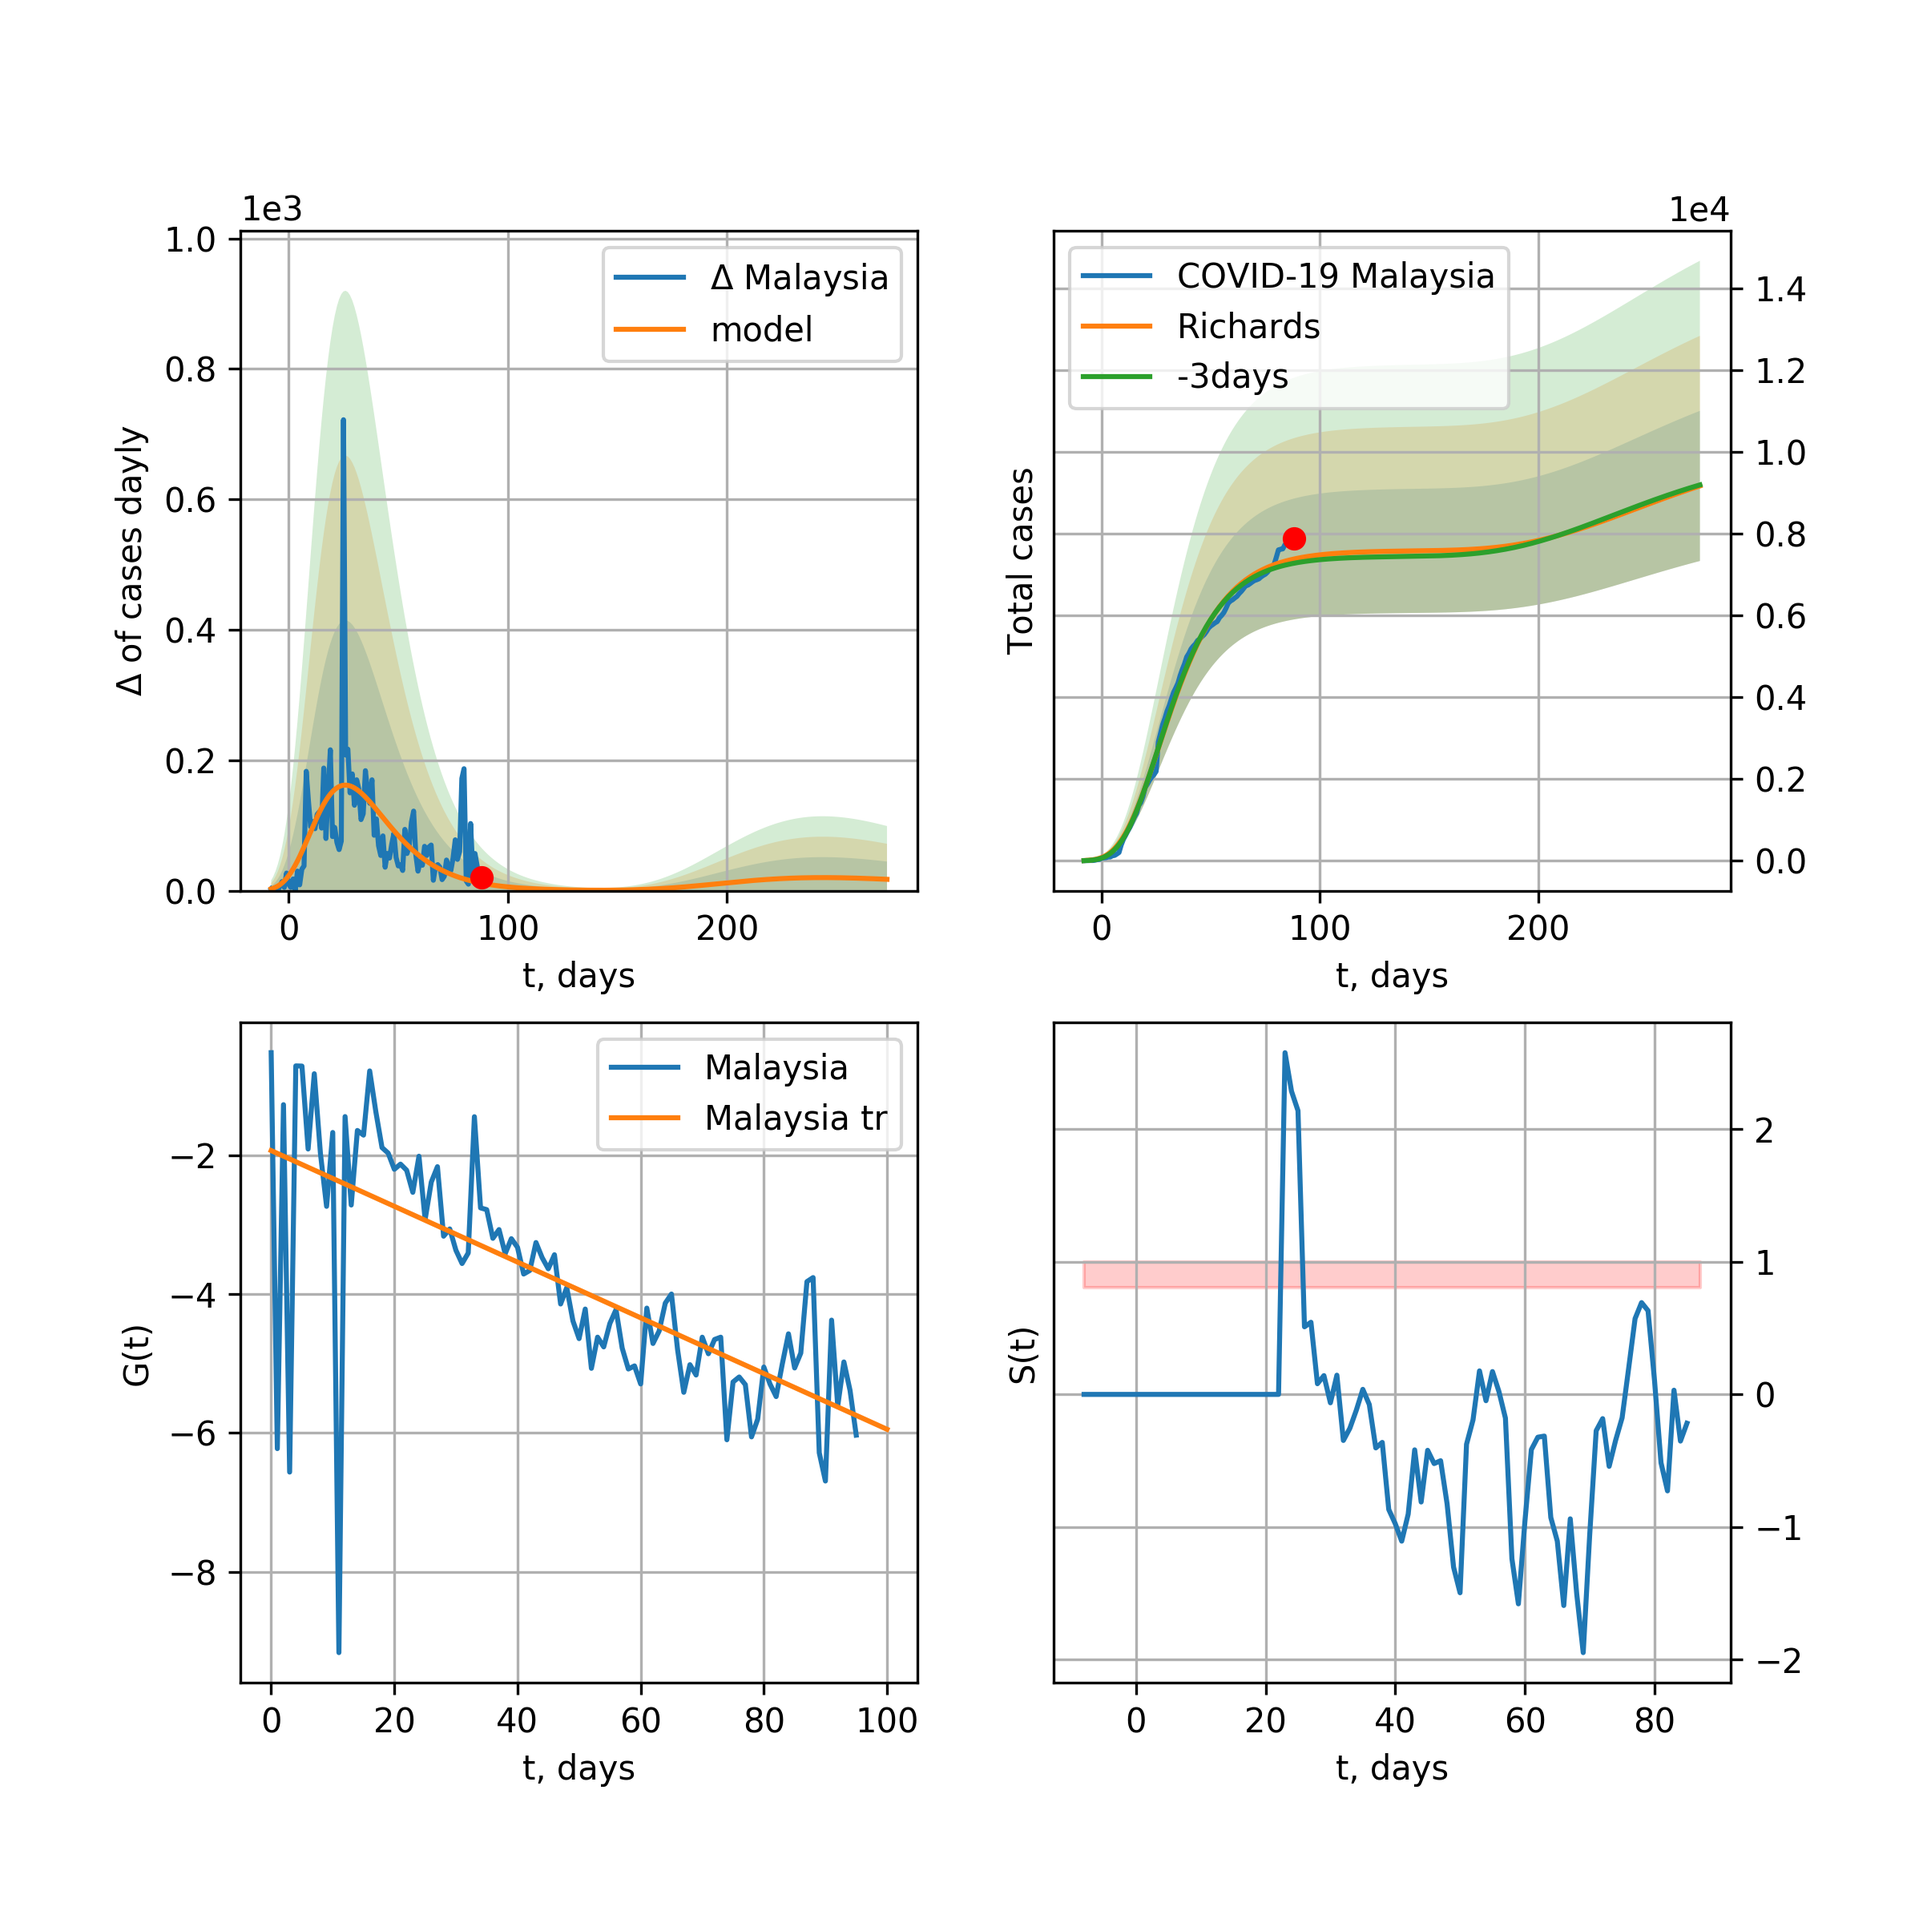
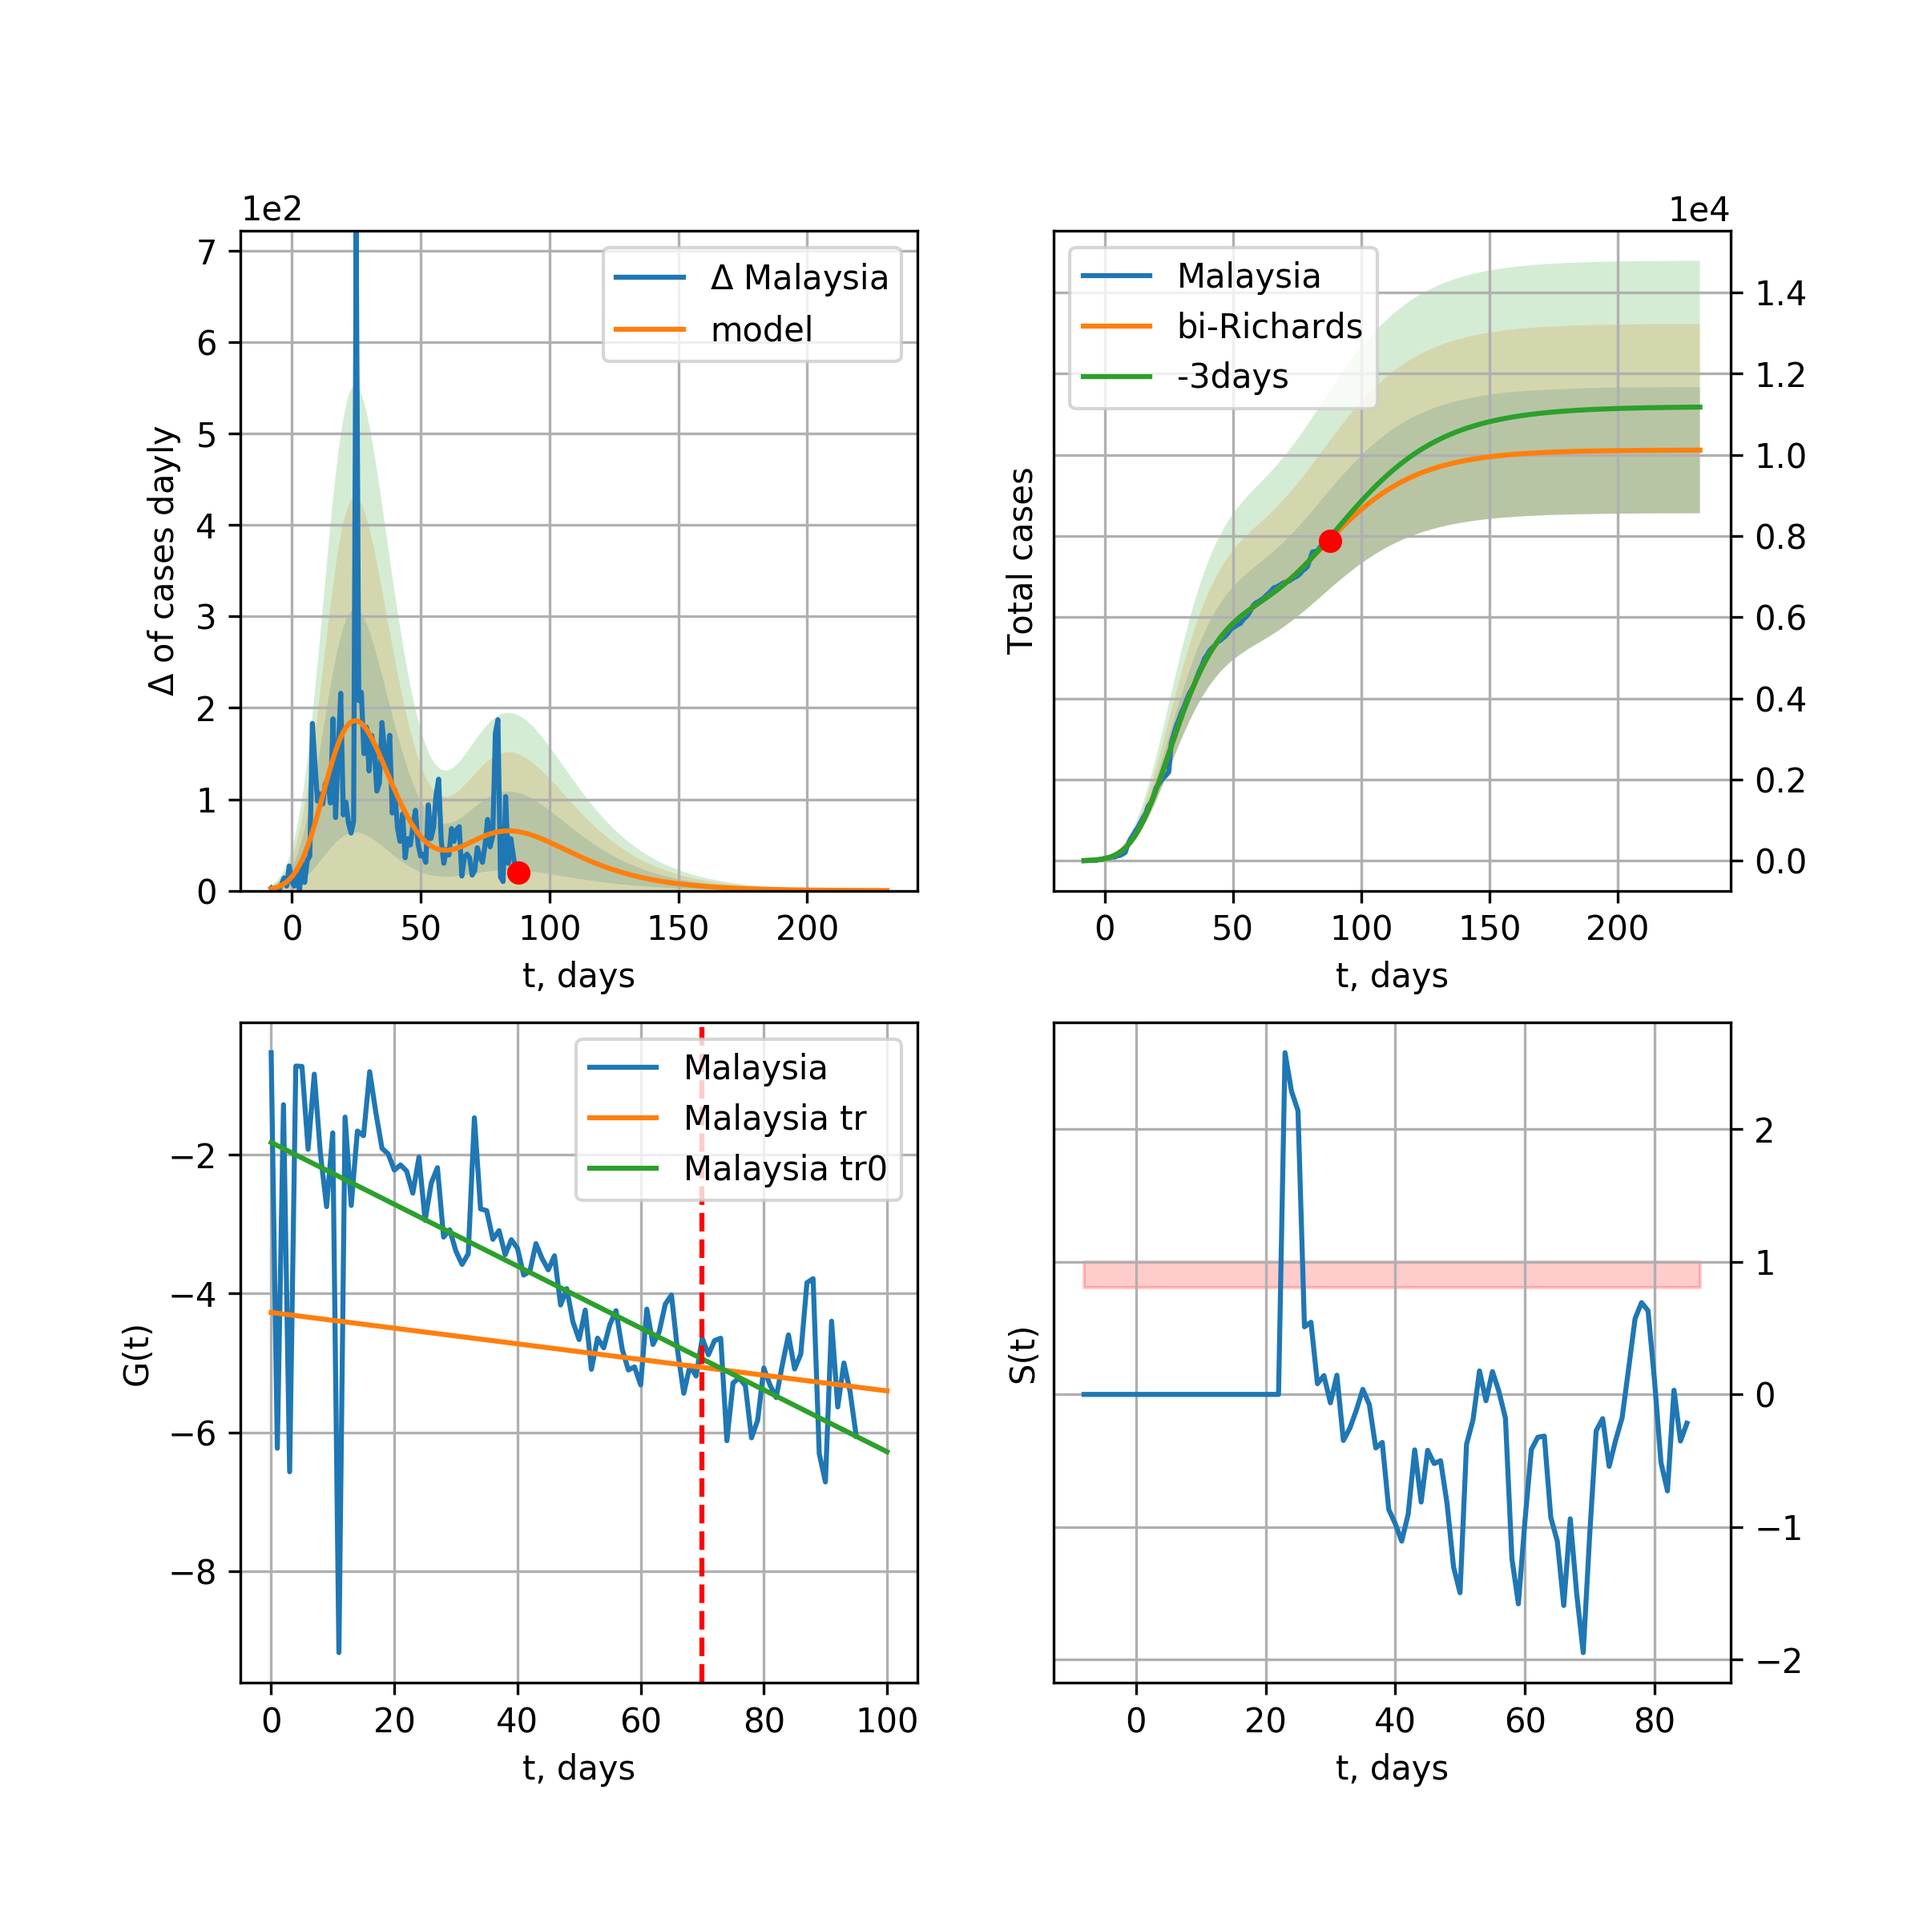
ML renew 2020-06-02

diff --git a/_site/index.html b/_site/index.html
@@ -1055,21 +1055,24 @@ trend coefficient of determination: 0.756328 <br />
     
     Malaysia
     <br />
-    <img src="pictures/covidcasesMalaysia35_Q.png" alt="hi" class="inline"/><br /> 
+    <img src="pictures/covidcasesMalaysia36_R.png" alt="hi" class="inline"/><br /> 
 
       Malaysia data at: 2020-06-02<br />
-+3 day model MAPE: 0.016706<br />
-model: logisticQ<br />
-coeffs: [ 7.18189543e+03  3.01213044e-07  3.20665768e+01 -3.14547860e+05]<br />
-S.Korea scenario coeffs: [0.35416971, 0.02606324, 4.35859408, 19.30413219]<br />
-rational stdev: 0.335381<br />
-forecast at the end of period: +109 days<br />
-	 deltaDaycases: 7<br />
-	 total cases: 9569 ± 3209<br />
-	 total death: 139 ± 139<br />
-trend coefficient of determination: 0.877527 <br />
- intercept_: -4.585311725607064 <br />
- coeffs_: [ 0.         -0.23332604  0.00143136]<br />
++3 day model MAPE: 0.007775<br />
+model: bi-Richards<br />
+coeffs: [ 3.56075489e+03  5.39613497e+00 -1.22799740e+01  8.85858024e-03]<br />
+S.Korea scenario coeffs: [0.36242246, 2.56241634, 1.84890887, 0.13324732]<br />
+rational stdev: 0.153710<br />
+forecast at the end of period: +144 days<br />
+	 deltaDaycases: 0<br />
+	 total cases: 10114 ± 1554<br />
+	 total death: 147 ± 67<br />
+bi-Richards approximation splitting point: 70<br />
+trend coefficient of determination: 0.329032 <br />
+ intercept: -1.819532 <br />
+ slope: -0.044616<br />trend coefficient of determination: 0.014738 <br />
+ intercept: -4.272034 <br />
+ slope: -0.011310<br />
           <br /> 
 
     Dominican Republic

diff --git a/index.html b/index.html
@@ -395,9 +395,9 @@ European Union
     
     Malaysia
     <br />
-    <img src="pictures/covidcasesMalaysia35_Q.png" alt="hi" class="inline"/><br /> 
+    <img src="pictures/covidcasesMalaysia36_R.png" alt="hi" class="inline"/><br /> 
 
-      {% include_relative _includes/covidcasesMalaysia35_Q.txt %}
+      {% include_relative _includes/covidcasesMalaysia36_R.txt %}
           <br /> 
 
     Dominican Republic
